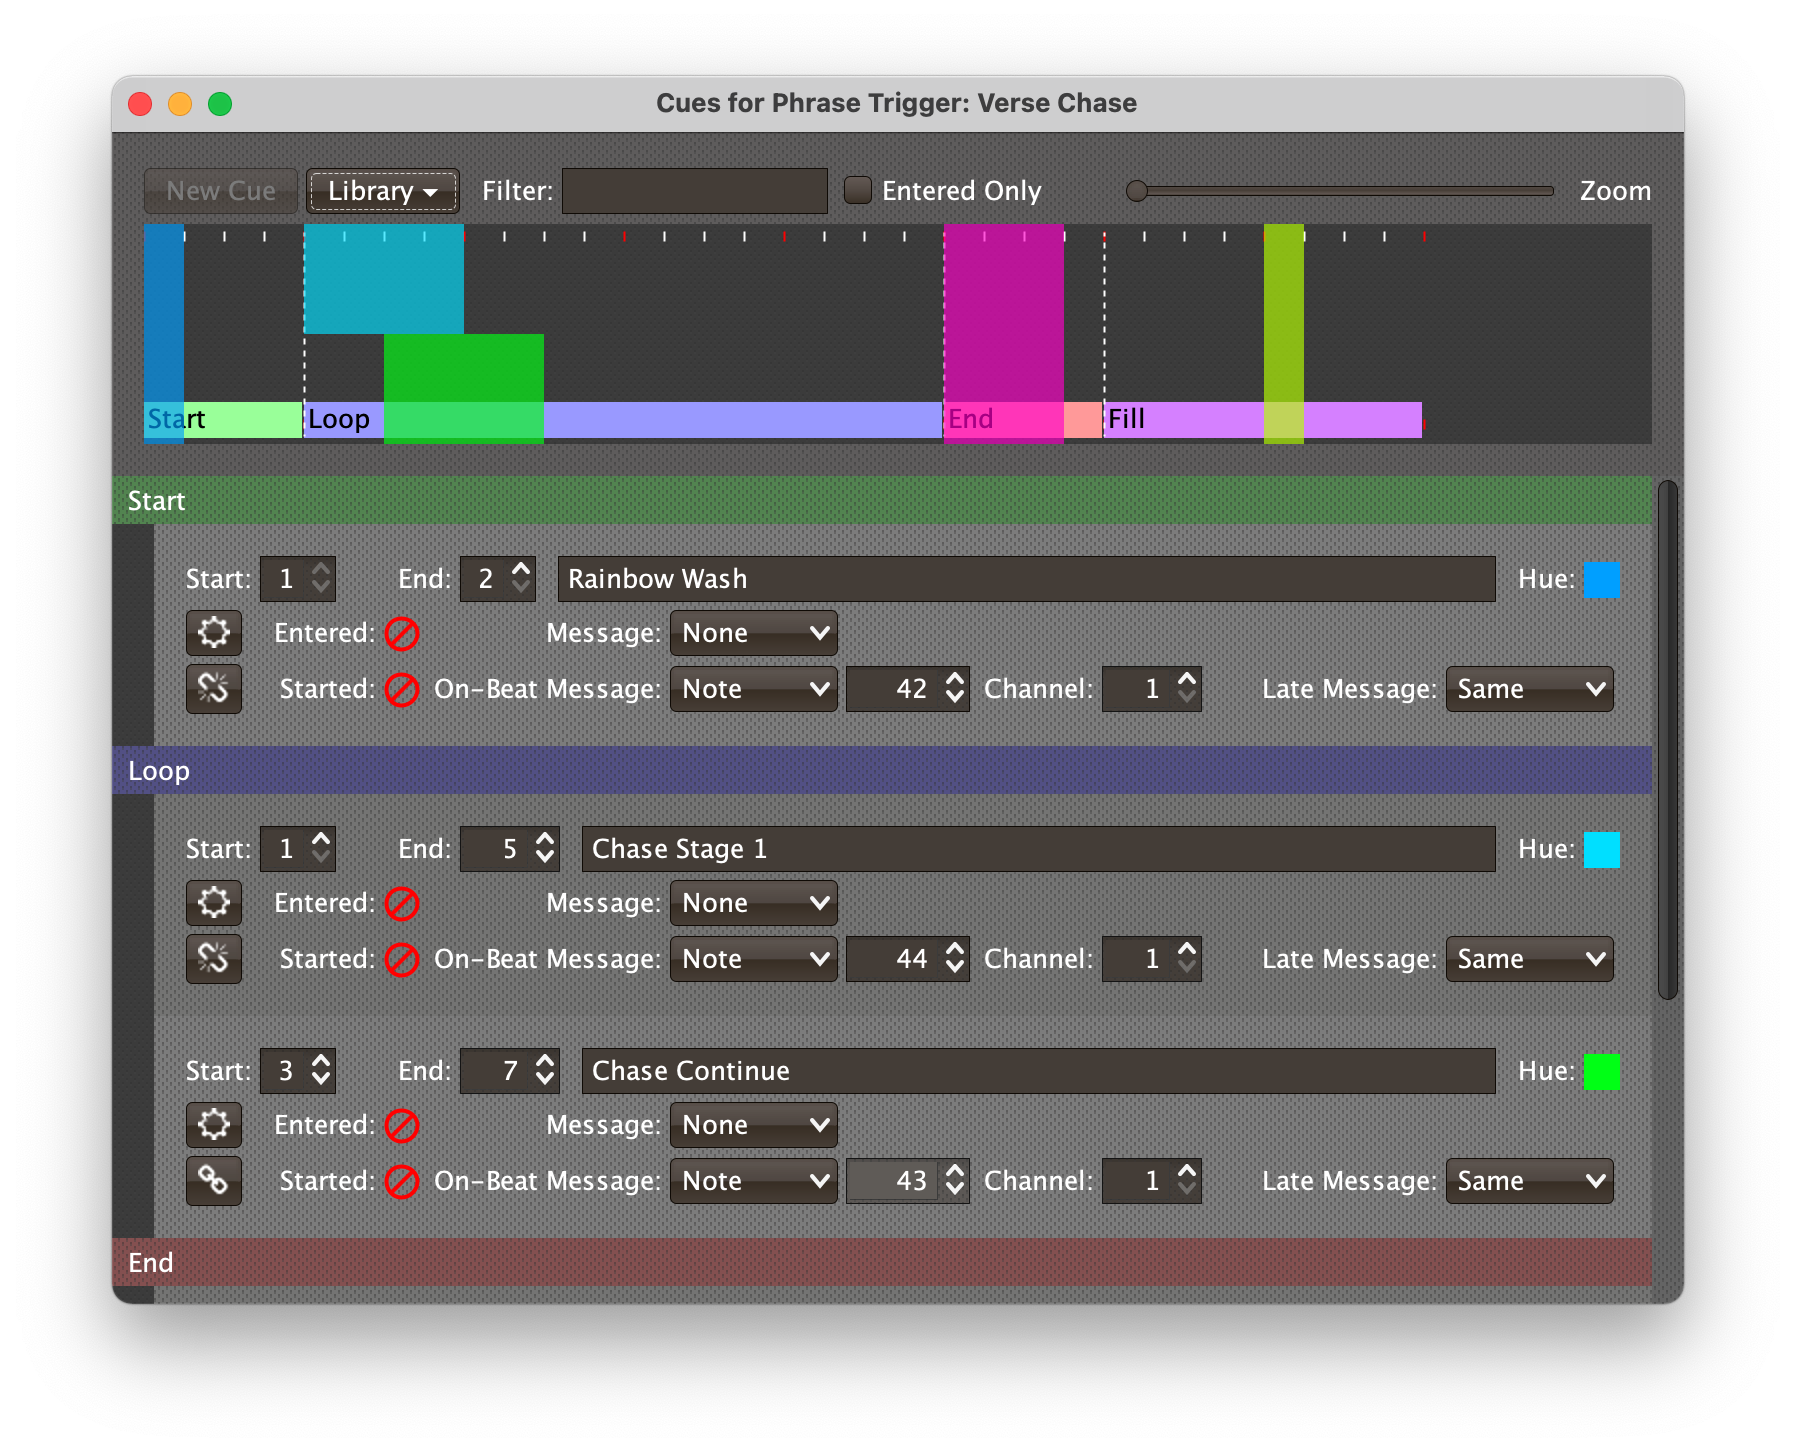
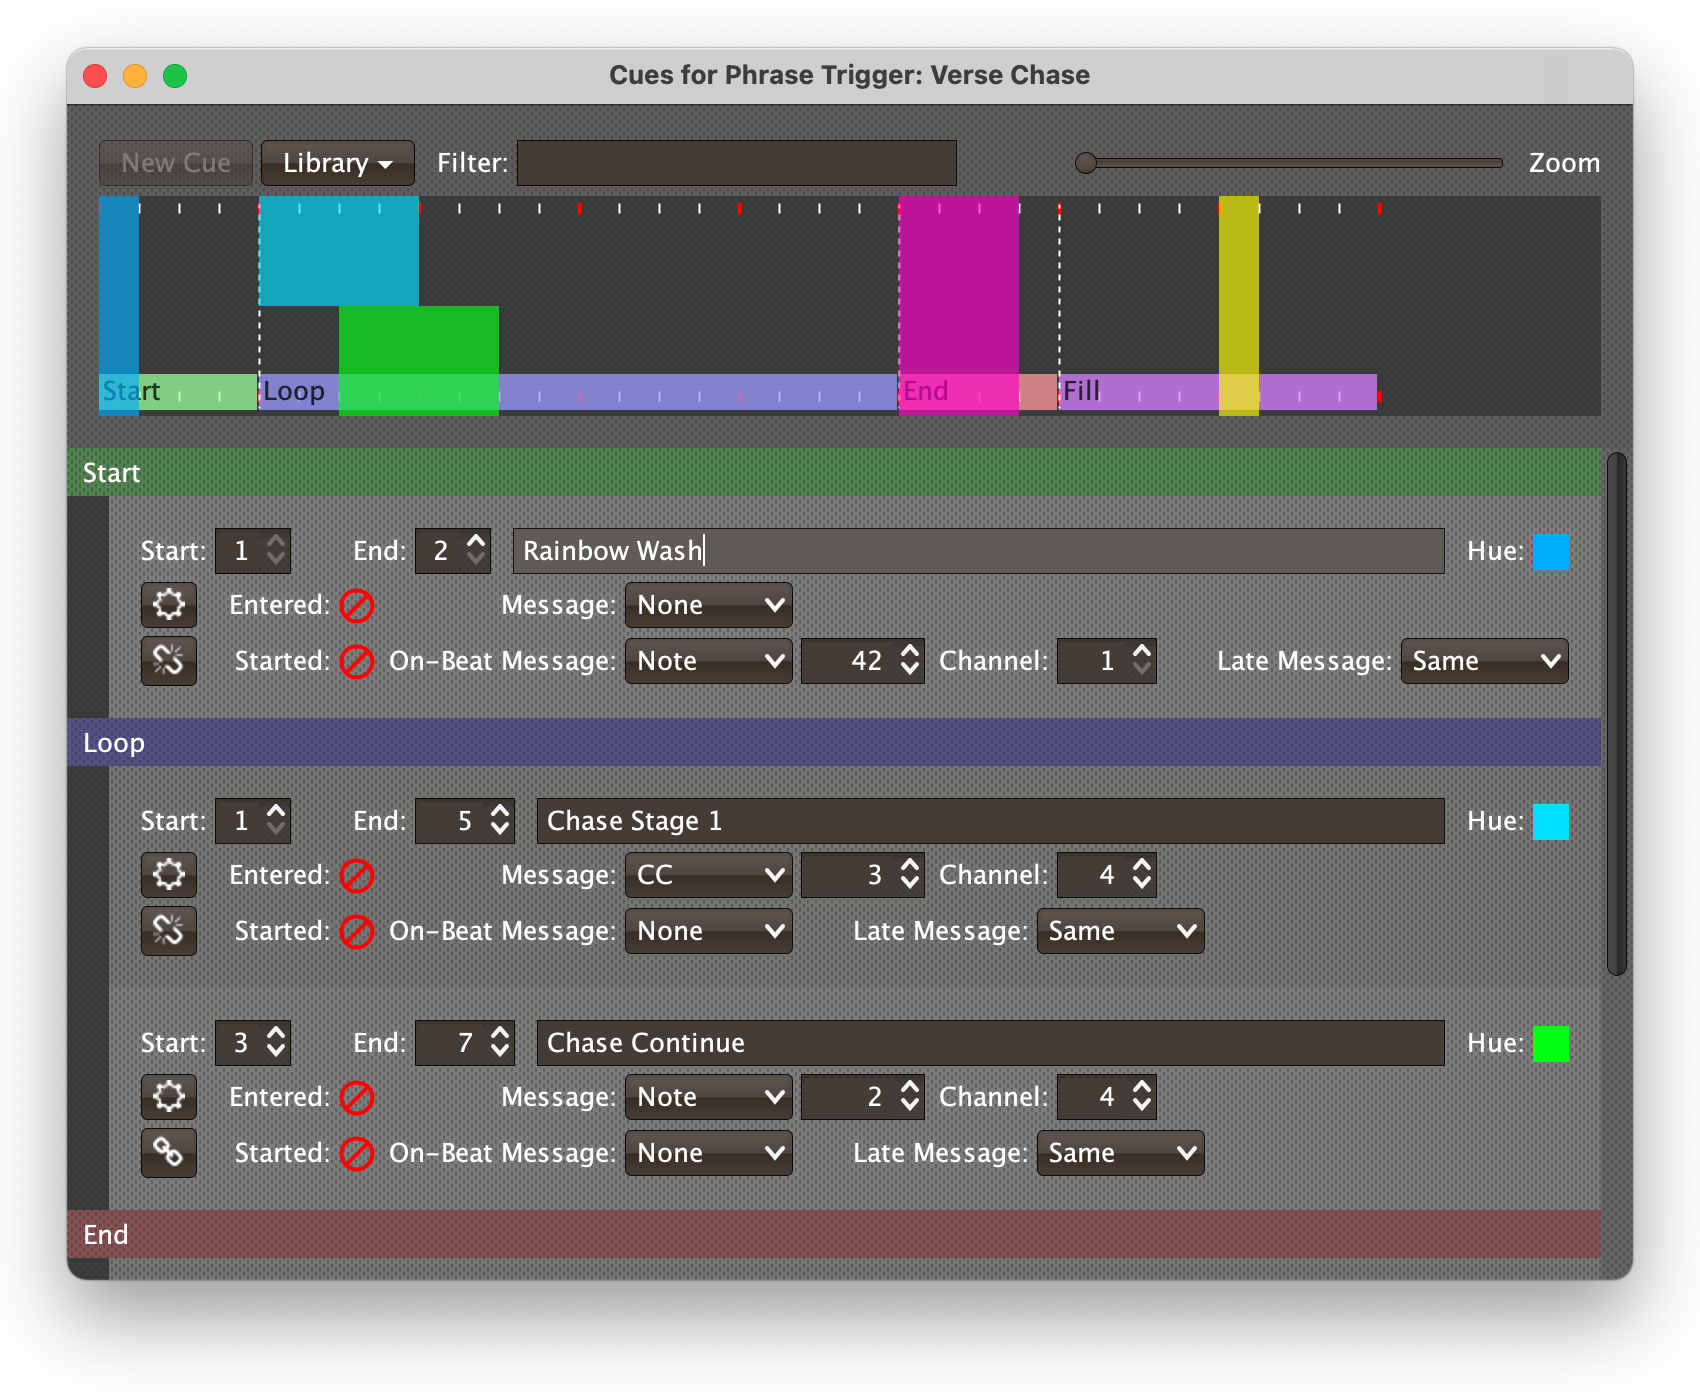
Update rest of user guide for phrase triggers, #119

diff --git a/CHANGELOG.md b/CHANGELOG.md
@@ -16,9 +16,13 @@ This change log follows the conventions of
 - Song structure (phrase analysis) is now displayed on waveforms when
   it is available, both in Player Status and in Show windows, where it
   can be helpful in deciding where to position cues.
-- A major new feature which allows cues to be mapped out for specific
-  types of phrases, regardless of the tracks in which they appear, is
-  being developed.
+- In addition to Tracks, shows can now contain Phrase Triggers,
+  allowing cues to be mapped out for specific types of phrases,
+  regardless of the tracks in which they appear. This allows you to
+  build lighting looks and effects for any tracks for which the DJ has
+  performed phrase analysis, and this works for any player hardware
+  supported by Beat Link Trigger; the player does not itself have to
+  support lighting.
 - Show cues can now be linked to library cues, which means whenever
   one of the linked cues is edited, the library cue and any other cues
   that are linked to the same library cue are instantly updated to

diff --git a/README.md b/README.md
@@ -5,7 +5,8 @@
       src="doc/modules/ROOT/assets/images/BeatLink-logo-padded-left.png">
 
 An application to trigger MIDI events when CDJs start playing tracks,
-reach particular beats, or whatever else you can think of. Built using
+play certain kinds of phrases, reach particular beats, or whatever
+else you can think of. Built using
 [beat-link](https://github.com/Deep-Symmetry/beat-link#beat-link).
 
 > ”It's a shame Pioneer doesn't support this project, even
